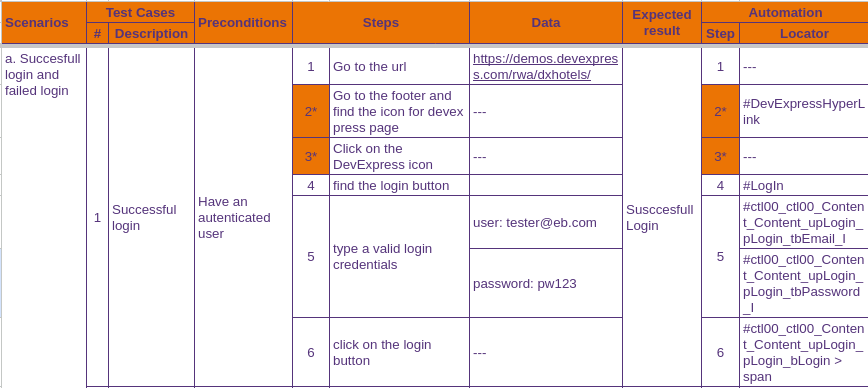
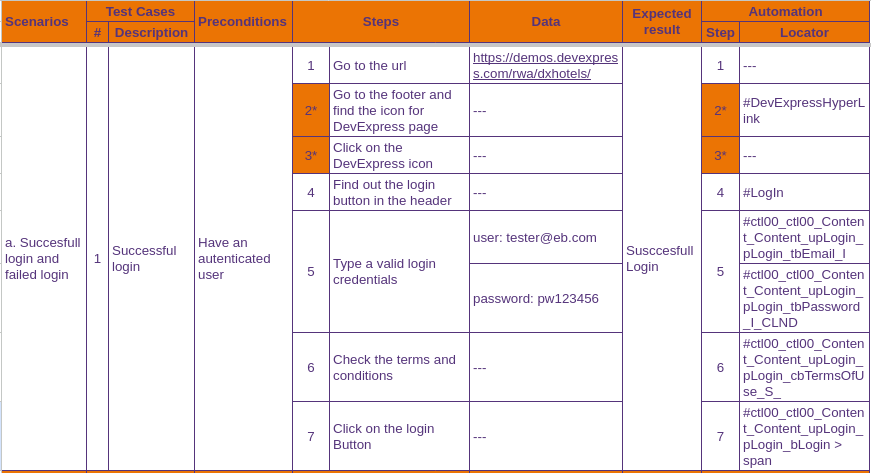
set .env file

Changed region(s): [[0.0, 0.0, 1.0, 1.0], [0.6843, 0.8041, 0.7154, 0.866], [0.6843, 0.2165, 0.7154, 0.2474]]

diff --git a/tests/login.spec.ts b/tests/login.spec.ts
@@ -1,13 +1,19 @@
 import { test, expect } from '@playwright/test';
 import { MainPage } from '../pages/mainPage';
+import dotenv from 'dotenv';
+dotenv.config();
+
+const username = process.env.USERNAME || '';
+const password = process.env.PASSWORD || '';
+
 
 test('Succesful login', async ({ page }) => {
   const mainPage = new MainPage(page);
   await mainPage.goto();
   await mainPage.devexpressIcon.click();
   await mainPage.loginHeaderButton.click();
-  await mainPage.userInput.fill('tester@eb.com');
-  await mainPage.passInput.fill('pw123456');
+  await mainPage.userInput.fill(username);
+  await mainPage.passInput.fill(password);
   await mainPage.termsConditions.click();
   await mainPage.loginButton.click();
   await expect(mainPage.userIcon).toBeVisible({ timeout: 10000});

diff --git a/pages/mainPage.ts b/pages/mainPage.ts
@@ -1,4 +1,8 @@
 import { expect, type Locator, type Page } from '@playwright/test';
+import dotenv from 'dotenv';
+dotenv.config();
+
+const url = process.env.URL || '';
 
 export class MainPage {
   readonly page: Page;
@@ -23,6 +27,6 @@ export class MainPage {
   }
 
   async goto() {
-    await this.page.goto('https://demos.devexpress.com/rwa/dxhotels/');
+    await this.page.goto(url);
   }
 }

diff --git a/playwright.config.ts b/playwright.config.ts
@@ -1,10 +1,17 @@
 import { defineConfig, devices } from '@playwright/test';
+import dotenv from 'dotenv';
 
 /**
  * Read environment variables from file.
  * https://github.com/motdotla/dotenv
  */
 // require('dotenv').config();
+
+
+
+// Read from default ".env" file.
+dotenv.config();
+
 
 /**
  * See https://playwright.dev/docs/test-configuration.
